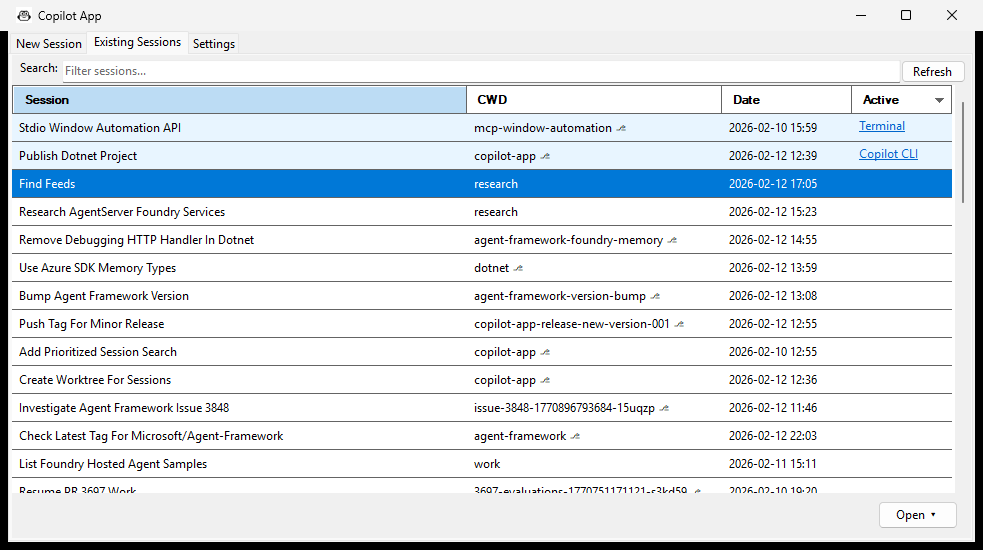
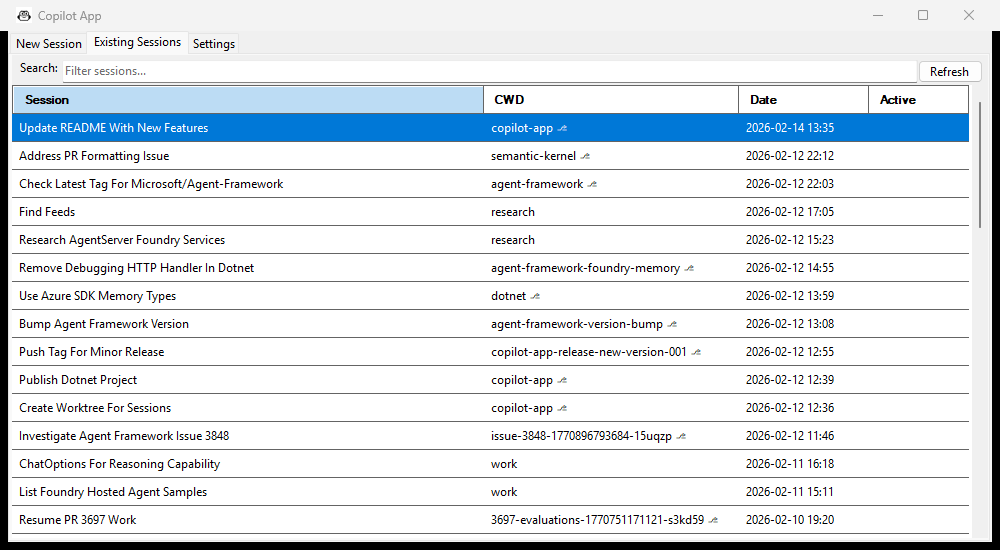
feat: right-click context menu, loading overlay, and v0.6.1
- Replace bottom Open button with right-click context menu on session rows
- Merge Edit Session into the context menu alongside all Open actions
- Add loading overlay on Existing Sessions tab during async data fetch
- Update README with context menu documentation and fresh screenshots
- Bump version to 0.6.1

diff --git a/src/Forms/MainForm.cs b/src/Forms/MainForm.cs
@@ -27,6 +27,7 @@ internal class MainForm : Form
     private TextBox _searchBox = null!;
     private DataGridView _sessionGrid = null!;
     private SessionGridController _gridController = null!;
+    private Label _loadingOverlay = null!;
     private List<NamedSession> _cachedSessions = new();
     private readonly ActiveStatusTracker _activeTracker = new();
     private Timer? _activeStatusTimer;
@@ -109,11 +110,21 @@ internal class MainForm : Form
         var searchPanel = this.BuildSearchPanel();
         this._gridController = new SessionGridController(this._sessionGrid, this._activeTracker);
         this.BuildGridContextMenu();
-        var buttonPanel = this.BuildSessionButtonPanel();
 
+        this._loadingOverlay = new Label
+        {
+            Text = "Loading sessions...",
+            Dock = DockStyle.Fill,
+            TextAlign = ContentAlignment.MiddleCenter,
+            Font = new Font(SystemFonts.DefaultFont.FontFamily, 14f, FontStyle.Regular),
+            ForeColor = SystemColors.GrayText,
+            BackColor = SystemColors.Window
+        };
+
+        this._sessionsTab.Controls.Add(this._loadingOverlay);
+        this._loadingOverlay.BringToFront();
         this._sessionsTab.Controls.Add(this._sessionGrid);
         this._sessionsTab.Controls.Add(searchPanel);
-        this._sessionsTab.Controls.Add(buttonPanel);
     }
 
     private void InitializeSessionGrid()
@@ -226,7 +237,20 @@ internal class MainForm : Form
     private void BuildGridContextMenu()
     {
         var gridContextMenu = new ContextMenuStrip();
-        var editMenuItem = new ToolStripMenuItem("Edit");
+
+        var menuOpenSession = new ToolStripMenuItem("Open Session");
+        menuOpenSession.Click += (s, e) =>
+        {
+            var sid = this._gridController.GetSelectedSessionId();
+            if (sid != null)
+            {
+                this.SelectedSessionId = sid;
+                this.LaunchSession();
+            }
+        };
+        gridContextMenu.Items.Add(menuOpenSession);
+
+        var editMenuItem = new ToolStripMenuItem("Edit Session");
         editMenuItem.Click += async (s, e) =>
         {
             var sid = this._gridController.GetSelectedSessionId();
@@ -254,55 +278,8 @@ internal class MainForm : Form
             }
         };
         gridContextMenu.Items.Add(editMenuItem);
-        this._sessionGrid.ContextMenuStrip = gridContextMenu;
 
-        this._sessionGrid.CellMouseDown += (s, e) =>
-        {
-            if (e.Button == MouseButtons.Right && e.RowIndex >= 0)
-            {
-                this._sessionGrid.ClearSelection();
-                this._sessionGrid.Rows[e.RowIndex].Selected = true;
-                this._sessionGrid.CurrentCell = this._sessionGrid.Rows[e.RowIndex].Cells[0];
-            }
-        };
-    }
-
-    private FlowLayoutPanel BuildSessionButtonPanel()
-    {
-        var sessionButtonPanel = new FlowLayoutPanel
-        {
-            Dock = DockStyle.Bottom,
-            Height = 45,
-            FlowDirection = FlowDirection.RightToLeft,
-            Padding = new Padding(5)
-        };
-
-        var btnOpen = new Button { Text = "Open ▾", Width = 80, Height = 28 };
-        var openMenu = this.BuildOpenMenu();
-        btnOpen.Click += (s, e) =>
-        {
-            openMenu.Show(btnOpen, new Point(0, btnOpen.Height));
-        };
-
-        sessionButtonPanel.Controls.Add(btnOpen);
-        return sessionButtonPanel;
-    }
-
-    private ContextMenuStrip BuildOpenMenu()
-    {
-        var openMenu = new ContextMenuStrip();
-
-        var menuOpenSession = new ToolStripMenuItem("Open Session");
-        menuOpenSession.Click += (s, e) =>
-        {
-            var sid = this._gridController.GetSelectedSessionId();
-            if (sid != null)
-            {
-                this.SelectedSessionId = sid;
-                this.LaunchSession();
-            }
-        };
-        openMenu.Items.Add(menuOpenSession);
+        gridContextMenu.Items.Add(new ToolStripSeparator());
 
         var menuOpenNewSession = new ToolStripMenuItem("Open as New Copilot Session");
         menuOpenNewSession.Click += (s, e) =>
@@ -331,7 +308,7 @@ internal class MainForm : Form
                 }
             }
         };
-        openMenu.Items.Add(menuOpenNewSession);
+        gridContextMenu.Items.Add(menuOpenNewSession);
 
         var menuOpenNewSessionWorkspace = new ToolStripMenuItem("Open as New Copilot Session Workspace");
         menuOpenNewSessionWorkspace.Click += (s, e) =>
@@ -368,9 +345,9 @@ internal class MainForm : Form
                 }
             }
         };
-        openMenu.Items.Add(menuOpenNewSessionWorkspace);
+        gridContextMenu.Items.Add(menuOpenNewSessionWorkspace);
 
-        openMenu.Items.Add(new ToolStripSeparator());
+        gridContextMenu.Items.Add(new ToolStripSeparator());
 
         var menuOpenTerminal = new ToolStripMenuItem("Open Terminal");
         menuOpenTerminal.Click += (s, e) =>
@@ -394,12 +371,12 @@ internal class MainForm : Form
                 this.RefreshActiveStatusAsync();
             }
         };
-        openMenu.Items.Add(menuOpenTerminal);
+        gridContextMenu.Items.Add(menuOpenTerminal);
 
         var ideRepoMenuItems = new List<ToolStripMenuItem>();
         if (Program._settings.Ides.Count > 0)
         {
-            openMenu.Items.Add(new ToolStripSeparator());
+            gridContextMenu.Items.Add(new ToolStripSeparator());
 
             foreach (var ide in Program._settings.Ides)
             {
@@ -427,7 +404,7 @@ internal class MainForm : Form
                         this.RefreshActiveStatusAsync();
                     }
                 };
-                openMenu.Items.Add(menuIdeCwd);
+                gridContextMenu.Items.Add(menuIdeCwd);
 
                 var menuIdeRepo = new ToolStripMenuItem($"Open in {ide.Description} (Repo Root)");
                 menuIdeRepo.Click += (s, e) =>
@@ -457,12 +434,12 @@ internal class MainForm : Form
                         this.RefreshActiveStatusAsync();
                     }
                 };
-                openMenu.Items.Add(menuIdeRepo);
+                gridContextMenu.Items.Add(menuIdeRepo);
                 ideRepoMenuItems.Add(menuIdeRepo);
             }
         }
 
-        openMenu.Items.Add(new ToolStripSeparator());
+        gridContextMenu.Items.Add(new ToolStripSeparator());
 
         var menuOpenEdge = new ToolStripMenuItem("Open in Edge");
         menuOpenEdge.Click += async (s, e) =>
@@ -501,9 +478,9 @@ internal class MainForm : Form
             await workspace.OpenAsync().ConfigureAwait(true);
             this.RefreshActiveStatusAsync();
         };
-        openMenu.Items.Add(menuOpenEdge);
+        gridContextMenu.Items.Add(menuOpenEdge);
 
-        openMenu.Opening += (s, e) =>
+        gridContextMenu.Opening += (s, e) =>
         {
             bool isGit = false;
             var sessionId = this._gridController.GetSelectedSessionId();
@@ -523,7 +500,17 @@ internal class MainForm : Form
             }
         };
 
-        return openMenu;
+        this._sessionGrid.ContextMenuStrip = gridContextMenu;
+
+        this._sessionGrid.CellMouseDown += (s, e) =>
+        {
+            if (e.Button == MouseButtons.Right && e.RowIndex >= 0)
+            {
+                this._sessionGrid.ClearSelection();
+                this._sessionGrid.Rows[e.RowIndex].Selected = true;
+                this._sessionGrid.CurrentCell = this._sessionGrid.Rows[e.RowIndex].Cells[0];
+            }
+        };
     }
 
     private void BuildSettingsTab()
@@ -908,6 +895,8 @@ internal class MainForm : Form
         this._cachedSessions = sessions;
         var snapshot = this._activeTracker.Refresh(this._cachedSessions);
         this._gridController.Populate(this._cachedSessions, snapshot, this._searchBox.Text);
+
+        this._loadingOverlay.Visible = false;
 
         this.RefreshNewSessionList();
     }

diff --git a/README.md b/README.md
@@ -46,25 +46,22 @@ Other session browser features:
 - **Terminal persistence** — active terminals survive app restarts
 - **Auto-refresh** — the list updates when new sessions appear or names change externally
 - **Auto-cleanup** — empty sessions with no activity are automatically removed
-- **Edit session** — right-click any session to rename it or change its working directory
-
-<p align="center">
-  <img src="images/context-menu-edit.png" alt="Right-click Edit context menu" width="250">
-</p>
+- **Loading indicator** — shows "Loading sessions..." while session data is being fetched
 
 ---
 
-### 🔘 Single Open Button
+### 📋 Right-Click Context Menu
 
-All session actions are consolidated into a single **Open ▾** dropdown:
+Right-click any session row to access all actions in a single context menu:
 
 <p align="center">
-  <img src="images/open-dropdown-menu.png" alt="Open dropdown with all session actions" width="300">
+  <img src="images/context-menu-edit.png" alt="Right-click context menu with all session actions" width="300">
 </p>
 
 | Action | Description |
 |--------|-------------|
 | **Open Session** | Resume the session in its original working directory |
+| **Edit Session** | Rename the session or change its working directory |
 | **Open as New Copilot Session** | Start a fresh Copilot CLI session in the same directory |
 | **Open as New Copilot Session Workspace** | Create a Git worktree workspace (Git repos only) |
 | **Open Terminal** | Launch a standalone terminal in the session's directory |

diff --git a/CHANGELOG.md b/CHANGELOG.md
@@ -4,6 +4,17 @@ All notable changes to this project will be documented in this file.
 
 The format is based on [Keep a Changelog](https://keepachangelog.com/en/1.1.0/).
 
+## [0.6.1] - 2026-02-14
+
+### Changed
+
+- **Right-click context menu** — replaced the bottom "Open ▾" button with a right-click context menu on session rows. All actions (Open Session, Edit Session, Open Terminal, IDE, Edge) are now accessible via right-click.
+- **Loading overlay** — the Existing Sessions tab shows a "Loading sessions..." indicator while session data is being fetched on startup.
+
+### Fixed
+
+- **Edge browser launch** — resolved Edge executable path from Windows registry (`App Paths`) instead of relying on PATH, with fallback to common install locations and `microsoft-edge:` protocol handler.
+
 ## [0.6.0] - 2026-02-14
 
 ### Added
@@ -117,6 +128,7 @@ The format is based on [Keep a Changelog](https://keepachangelog.com/en/1.1.0/).
 - MIT license.
 - GitHub Actions release workflow with `.zip` artifact publishing.
 
+[0.6.1]: https://github.com/rogerbarreto/copilot-app/compare/v0.6.0...v0.6.1
 [0.6.0]: https://github.com/rogerbarreto/copilot-app/compare/v0.5.0...v0.6.0
 [0.5.0]: https://github.com/rogerbarreto/copilot-app/compare/v0.4.0...v0.5.0
 [0.4.0]: https://github.com/rogerbarreto/copilot-app/compare/v0.3.0...v0.4.0
